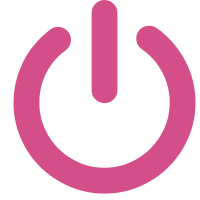
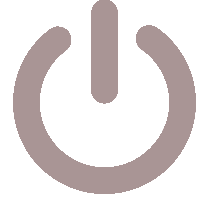
~

diff --git a/resources/views/PC/Suki/SukiAlarmClock.blade.php b/resources/views/PC/Suki/SukiAlarmClock.blade.php
@@ -123,15 +123,15 @@
                     <div class="input-group-prepend">
                         <div class="input-group-text" >补款</div>
                     </div>
-                    <input type="text" class="form-control set_date" id="pick_date" placeholder="选择日期" aria-label="选择日期" aria-describedby="btnGroupAddon">
+                    <input type="text" class="form-control set_date" id="pick_date_start" placeholder="选择日期" aria-label="选择日期" aria-describedby="btnGroupAddon">
                 </div>
                 <div class="input-group">
                     <div class="input-group-prepend">
                         <div class="input-group-text" >截止</div>
                     </div>
-                    <input type="text" class="form-control clock_end" id="pick_date" placeholder="选择日期" aria-label="选择日期" aria-describedby="btnGroupAddon">
+                    <input type="text" class="form-control clock_end" id="pick_date_end" placeholder="选择日期" aria-label="选择日期" aria-describedby="btnGroupAddon">
                 </div>
-                <input type="submit" class="sub_clock" style="    background: #fcbec3;border: 0px;width: 100%;">
+                <input type="submit" class="sub_clock" style="color: #000;    background: #fcbec3;border: 0px;width: 100%;">
             </div>
 
         </div>
@@ -152,9 +152,11 @@
     $(document).ready(function () {
         //执行一个laydate实例
         laydate.render({
-            elem: '#pick_date' //指定元素
+            elem: '#pick_date_start' //指定元素
         });
-
+        laydate.render({
+            elem: '#pick_date_end'
+        });
         $(".sub_clock").click(function (e) {
             e.preventDefault();
             var name = $(".set_name").val()

diff --git a/app/Http/routes.php b/app/Http/routes.php
@@ -222,6 +222,7 @@ Route::group([
     Route::get('/about_suki', ['uses' => 'SukiWebController@about_suki', 'as' => 'about_suki']);#关于suki
     Route::get('/add_suki_friend_view', ['uses' => 'SukiWebController@add_suki_friend_view', 'as' => 'add_suki_friend_view']);#suki加好友页面
     Route::get('/suki_tribunal', ['uses' => 'SukiWebController@suki_tribunal', 'as' => 'suki_tribunal']);#suki法庭,公示墙
+    Route::get('/suki_search', ['uses' => 'SukiWebController@suki_search', 'as' => 'suki_search']);#suki搜索
 
     Route::get('/suki-thread', ['uses' => 'SukiWebApiController@get_thread', 'as' => 'get_thread']);#获取suki的帖子
     Route::post('/suki-new-thread', ['uses' => 'SukiWebApiController@suki_new_thread', 'as' => 'suki-new-thread']);#获取suki的帖子

diff --git a/resources/views/PC/Suki/SukiHeader.blade.php b/resources/views/PC/Suki/SukiHeader.blade.php
@@ -252,8 +252,8 @@
             </ul>
         </div>
 
-        <a style="    position: absolute;bottom: 0px;width: 100%;text-align: center" href="/logout">
-            <span style="    font-size: 14px;color: #d95794;font-weight: 900;">退出登录</span>
+        <a style="    position: absolute;bottom: 0px;width: 100%;text-align: center;    background: #f3f2f2;padding: 5px;" href="/logout">
+            <span style="font-size: 14px;color: #a99595;font-weight: 900;    font-size: 12px;">退出登录</span>
             <img src="/Image/tuichu1.png" style="width: 14px;padding-bottom: 4px;" >
         </a>
     </div>

diff --git a/app/Http/DbModel/SukiClockModel.php b/app/Http/DbModel/SukiClockModel.php
@@ -22,7 +22,7 @@ class SukiClockModel extends Model
             case "day" :
                 $data = $data->groupBy("clock_date")->orderBy("clock_date","asc")->get();
                 break;
-            case "month" :
+            case "ym" :
                 $data = $data->groupBy("ym")->orderBy("clock_date","asc")->get();
                 break;
             default:

diff --git a/app/Http/DbModel/ForumThreadModel.php b/app/Http/DbModel/ForumThreadModel.php
@@ -68,5 +68,11 @@ class ForumThreadModel extends Model
     {
         return self::where('authorid',$uid)->orderBy('tid','desc')->limit(15)->offset($page*15)->get();
     }
-
+    /**
+     * 根据名字模糊搜索帖子
+     */
+    public static function find_by_namelike($name)
+    {
+        
+    }
 }

diff --git a/app/Http/Controllers/SukiWeb/SukiWebController.php b/app/Http/Controllers/SukiWeb/SukiWebController.php
@@ -217,4 +217,9 @@ class SukiWebController extends Controller
     {
         return  view('PC/Suki/SukiAbout')->with('data',$this->data);
     }
+    //suki 搜索
+    public function suki_search(Request $request)
+    {
+//        ForumThreadModel::
+    }
 }
